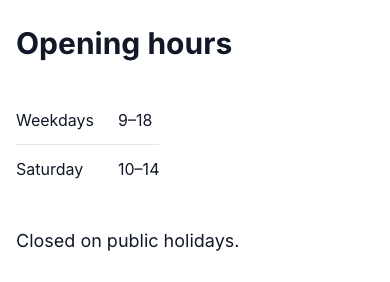
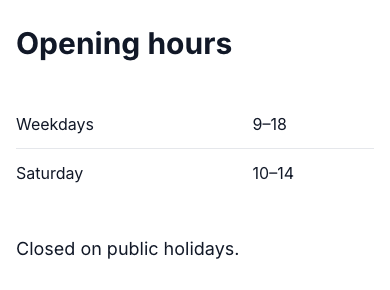
fix(astro-starter): a bare table in rich text scrolls in a named, focusable region and keeps its table semantics (#606)

diff --git a/packages/astro-kit/tests/starter-body-tables.test.ts b/packages/astro-kit/tests/starter-body-tables.test.ts
@@ -1,0 +1,70 @@
+import { readdir, readFile } from 'node:fs/promises'
+import { join } from 'node:path'
+import ts from 'typescript'
+import { describe, expect, it } from 'vitest'
+
+const STARTER = join(import.meta.dirname, '..', '..', '..', 'templates', 'astro-starter')
+
+// The starter's own file, compiled here: imported, it would be read under the starter's tsconfig, which extends astro's
+// (not installed in the template). It imports nothing, so it runs as it is.
+const source = await readFile(join(STARTER, 'src', 'lib', 'body-tables.ts'), 'utf8')
+const compiled = ts.transpileModule(source, { compilerOptions: { module: ts.ModuleKind.CommonJS, target: ts.ScriptTarget.ES2022 } }).outputText
+const loaded = { exports: {} as { scrollingTables: (html: string, label: string) => string, tableLabel: (t: (key: string) => string) => string } }
+// eslint-disable-next-line no-new-func -- the starter's module, read from its file
+new Function('module', 'exports', compiled)(loaded, loaded.exports)
+const { scrollingTables, tableLabel } = loaded.exports
+const region = (name: string) => `<div class="table-scroll" role="region" tabindex="0" ${name}>`
+const TABLE = '<table><tr><td>a</td></tr></table>'
+
+describe('a table in rich text with no table block around it scrolls in a named region', () => {
+  it('wraps a bare table, named by the label, and leaves the rest as written', () => {
+    expect(scrollingTables(`<p>x</p>${TABLE}<p>y</p>`, 'Table')).toBe(`<p>x</p>${region('aria-label="Table"')}${TABLE}</div><p>y</p>`)
+    expect(scrollingTables('<p>no table</p>', 'Table')).toBe('<p>no table</p>')
+  })
+
+  it('is named by the caption: its id where it has one, else its text', () => {
+    const captioned = '<table>\n<caption>Plans <b>"2026"</b> &amp; prices</caption><tr><td>a</td></tr></table>'
+    expect(scrollingTables(captioned, 'Table')).toBe(`${region('aria-label="Plans &quot;2026&quot; &amp; prices"')}${captioned}</div>`)
+    const withId = '<table><caption id="plans">Plans</caption><tr><td>a</td></tr></table>'
+    expect(scrollingTables(withId, 'Table')).toBe(`${region('aria-labelledby="plans"')}${withId}</div>`)
+  })
+
+  it('leaves a table block\'s table (its figure scrolls already) and a table already in a region', () => {
+    const block = `<figure class="wp-block-table is-style-stripes">${TABLE}<figcaption>c</figcaption></figure>`
+    expect(scrollingTables(block, 'Table')).toBe(block)
+    const once = scrollingTables(TABLE, 'Table')
+    expect(scrollingTables(once, 'Table')).toBe(once)
+  })
+
+  it('wraps only the outermost of nested tables, and each of two in a row', () => {
+    const nested = `<table><tr><td>${TABLE}</td></tr></table>`
+    expect(scrollingTables(nested, 'Table')).toBe(`${region('aria-label="Table"')}${nested}</div>`)
+    expect(scrollingTables(`${TABLE}${TABLE}`, 'T')).toBe(`${region('aria-label="T"')}${TABLE}</div>${region('aria-label="T"')}${TABLE}</div>`)
+  })
+
+  it('a table after a closed table block is wrapped (the block does not hold it)', () => {
+    const block = `<figure class="wp-block-table">${TABLE}</figure>`
+    expect(scrollingTables(`${block}${TABLE}`, 'Table')).toBe(`${block}${region('aria-label="Table"')}${TABLE}</div>`)
+  })
+
+  it('names a region "Table" where no locale has table.label (the dictionary would print the key)', () => {
+    expect(tableLabel(key => key)).toBe('Table')
+    expect(tableLabel(key => (key === 'table.label' ? 'Tablo' : key))).toBe('Tablo')
+  })
+
+  it('every page body and rich custom field takes it, with the site\'s table.label, which every locale names', async () => {
+    const links = await readFile(join(STARTER, 'src', 'lib', 'links.ts'), 'utf8')
+    expect(links).toContain("if (result.includes('<table')) result = scrollingTables(result, tableLabel(await getStrings()))")
+    const fields = await readFile(join(STARTER, 'src', 'lib', 'fields.ts'), 'utf8')
+    expect(fields).toContain("html: value.includes('<table') ? scrollingTables(value, tableLabel(await getStrings())) : value")
+    const dir = join(STARTER, '.contentrain', 'content', 'site', 'ui-strings')
+    const locales = await readdir(dir)
+    expect(locales.length).toBeGreaterThan(1)
+    for (const file of locales) expect(JSON.parse(await readFile(join(dir, file), 'utf8'))['table.label'], file).toBeTruthy()
+    // The region scrolls and the table in it keeps its display; only an unwrapped table falls back to scrolling itself.
+    const css = await readFile(join(STARTER, 'src', 'styles', 'wp-blocks.css'), 'utf8')
+    expect(css).toContain('.prose .table-scroll { overflow-x: auto;')
+    const blocks = [...css.matchAll(/([^{}]*table[^{}]*)\{([^}]*display:\s*block[^}]*)\}/g)].map(m => m[1]!.trim().split('\n').at(-1))
+    expect(blocks).toEqual(['.prose table:not(.wp-block-table table, .table-scroll table)'])
+  })
+})

diff --git a/templates/astro-starter/src/lib/body-tables.ts b/templates/astro-starter/src/lib/body-tables.ts
@@ -1,0 +1,71 @@
+// Tables inside rich text. A table with no table block around it (the classic editor's, or hand-written) is wrapped in
+// a region that scrolls, so a wide one stays inside the column instead of widening the page (a phone zooms out to a
+// page wider than its screen, and taps miss). The table keeps its own display, and with it its table semantics in
+// every screen reader; the region is focusable so a keyboard can scroll it, and is named by the table's caption, else
+// by `label`. A table block's figure scrolls already (wp-blocks.css) and is left as it is.
+
+const TAG = /<(\/?)(table|figure|div)\b([^>]*)>/gi
+const CLASS = /\sclass\s*=\s*(?:"([^"]*)"|'([^']*)')/i
+const ID = /\sid\s*=\s*(?:"([^"]*)"|'([^']*)')/i
+const CAPTION = /^\s*<caption\b([^>]*)>([\s\S]*?)<\/caption>/i
+
+const classes = (attributes: string) => { const m = CLASS.exec(attributes); return (m?.[1] ?? m?.[2] ?? '').split(/\s+/) }
+const attributeText = (text: string) => text.replaceAll('&', '&amp;').replaceAll('"', '&quot;')
+const plain = (html: string) => html.replace(/<[^>]*>/g, ' ').replace(/\s+/g, ' ').trim()
+
+/** The region's name: the caption's own id, else the caption's text, else `label`. */
+function named(table: string, open: string, label: string): string {
+  const caption = CAPTION.exec(table.slice(open.length))
+  if (caption) {
+    const id = ID.exec(caption[1]!)
+    if (id) return `aria-labelledby="${attributeText(id[1] ?? id[2]!)}"`
+    const text = plain(caption[2]!)
+    // The caption's text as written: entities stay entities, a quote is escaped for the attribute.
+    if (text) return `aria-label="${text.replaceAll('"', '&quot;')}"`
+  }
+  return `aria-label="${attributeText(label)}"`
+}
+
+/**
+ * The HTML with every outermost table that no table block or scroll region holds wrapped in
+ * `<div class="table-scroll" role="region" tabindex="0" aria-label…>`. A table inside a table is left in its parent.
+ */
+export function scrollingTables(html: string, label: string): string {
+  // Open figures and divs, each marked when it already scrolls its table (a table block, or a region from an earlier pass).
+  const open: Array<{ tag: string, scrolls: boolean }> = []
+  let depth = 0
+  let start = -1
+  let startTag = ''
+  let out = ''
+  let copied = 0
+  for (const match of html.matchAll(TAG)) {
+    const [whole, closing, name, attributes] = match as unknown as [string, string, string, string]
+    const tag = name.toLowerCase()
+    const at = match.index
+    if (tag !== 'table') {
+      if (depth > 0) continue
+      if (!closing) open.push({ tag, scrolls: tag === 'figure' ? classes(attributes).includes('wp-block-table') : classes(attributes).includes('table-scroll') })
+      else for (let i = open.length - 1; i >= 0; i--) if (open[i]!.tag === tag) { open.splice(i); break }
+      continue
+    }
+    if (!closing) {
+      if (depth++ === 0 && !open.some(element => element.scrolls)) { start = at; startTag = whole }
+      continue
+    }
+    if (depth === 0) continue
+    if (--depth === 0 && start !== -1) {
+      const end = at + whole.length
+      const table = html.slice(start, end)
+      out += `${html.slice(copied, start)}<div class="table-scroll" role="region" tabindex="0" ${named(table, startTag, label)}>${table}</div>`
+      copied = end
+      start = -1
+    }
+  }
+  return copied === 0 ? html : out + html.slice(copied)
+}
+
+/** The region's name where a table has no caption: the site's `table.label`, or "Table" where no locale names it. */
+export function tableLabel(t: (key: string) => string): string {
+  const text = t('table.label')
+  return text === 'table.label' ? 'Table' : text
+}

diff --git a/templates/astro-starter/src/lib/links.ts b/templates/astro-starter/src/lib/links.ts
@@ -12,8 +12,9 @@ import { getCollection, getEntry, type CollectionEntry } from 'astro:content'
 import { safeUrl } from '../components/kit/_shared/safe-url'
 import { servedPath, underBase, withBase, withoutBase } from './base'
 import type { NavItem } from '../components/kit/_shared/types'
-import { byId, getRedirects, getSite, pageHref, postHref, resolve, termHref } from './content'
+import { byId, getRedirects, getSite, getStrings, pageHref, postHref, resolve, termHref } from './content'
 import { optimizedImages } from './body-images'
+import { scrollingTables, tableLabel } from './body-tables'
 import { entriesOf, entryById, entryHref, termHref as customTermHref, termsById } from './custom'
 import { siteConfig } from '../site.config'
 import { routeTable } from './site-routes'
@@ -217,7 +218,8 @@ function mediaText(html: string, index: MediaIndex): string {
 
 /**
  * Rich text made public: internal links become site paths, links to what is not public become their text,
- * images without an alt take their media library entry's, and local raster images are served optimized.
+ * images without an alt take their media library entry's, local raster images are served optimized, and a table no
+ * table block holds scrolls in its own region.
  */
 export async function publicHtml(html: string): Promise<string>
 export async function publicHtml(html: string | undefined): Promise<string | undefined>
@@ -236,6 +238,7 @@ export async function publicHtml(html: string | undefined): Promise<string | und
       return href === stored ? anchor : `<a${attributes.replace(HREF, `href="${encode(href)}"`)}>${inner}</a>`
     })
   }
+  if (result.includes('<table')) result = scrollingTables(result, tableLabel(await getStrings()))
   return result.includes('<img') ? optimizedImages(mediaText(result, await media())) : result
 }
 

diff --git a/templates/astro-starter/src/styles/wp-blocks.css b/templates/astro-starter/src/styles/wp-blocks.css
@@ -265,10 +265,15 @@
 .prose .wp-block-table { overflow-x: auto; margin-block: 2em; }
 .prose .wp-block-table table { margin: 0; }
 .prose .wp-block-table.is-style-stripes tbody tr:nth-child(odd) { background: var(--color-surface-muted); }
-/* A table with no table block around it (the classic editor's, or hand-written) scrolls in its own box: a narrow one
-   keeps its content width, a wide one stays inside the column instead of widening the page (on a phone, a page wider
-   than the screen is zoomed out and its taps miss). */
-.prose table:not(.wp-block-table table) { display: block; width: max-content; max-width: 100%; overflow-x: auto; }
+/* A table with no table block around it (the classic editor's, or hand-written) is wrapped in a scroll region when the
+   page is built (lib/body-tables.ts): a wide one stays inside the column instead of widening the page, and the table
+   keeps its own display, so screen readers still read it as a table. The region takes focus to scroll by keyboard. */
+.prose .table-scroll { overflow-x: auto; margin-block: 2em; }
+.prose .table-scroll table { margin: 0; }
+.prose .table-scroll:focus-visible { outline: 2px solid var(--color-accent); outline-offset: 2px; }
+/* A net for a table that reached the page some other way, unwrapped: it scrolls in its own box rather than widen the
+   page. Never applies on the wrapped path. */
+.prose table:not(.wp-block-table table, .table-scroll table) { display: block; max-width: 100%; overflow-x: auto; }
 .prose .wp-block-code { border-radius: 0.5rem; }
 .prose .wp-block-verse { font-family: var(--font-serif); white-space: pre-wrap; }
 .prose .wp-block-file { display: flex; flex-wrap: wrap; align-items: center; gap: 1em; }

diff --git a/templates/astro-starter/src/lib/fields.ts b/templates/astro-starter/src/lib/fields.ts
@@ -6,7 +6,8 @@ import { getEntry, type CollectionKey } from 'astro:content'
 import type { ImageInput } from '../components/kit/_shared/types'
 import type { CustomField, CustomType } from '../site.config'
 import { entryHref, refIds, termHref, termsById, text, type TypeEntry } from './custom'
-import { imageOf, type Media } from './content'
+import { getStrings, imageOf, type Media } from './content'
+import { scrollingTables, tableLabel } from './body-tables'
 import { servedPath } from './base'
 
 export type Shown =
@@ -79,7 +80,11 @@ async function show(field: CustomField, value: unknown, targets: Targets, depth:
     if (shown.length === 0) return undefined
     return type === 'relation' || shown.length === 1 ? shown[0] : { kind: 'list', items: shown }
   }
-  if (type === 'richtext' || type === 'markdown') return typeof value === 'string' ? { kind: 'html', html: value } : undefined
+  // Printed as written, but a table in it scrolls in its region like a body's (it does not pass through publicHtml).
+  if (type === 'richtext' || type === 'markdown') {
+    if (typeof value !== 'string') return undefined
+    return { kind: 'html', html: value.includes('<table') ? scrollingTables(value, tableLabel(await getStrings())) : value }
+  }
   if (type === 'date' || type === 'datetime') return value instanceof Date ? { kind: 'time', value, dateOnly: type === 'date' } : undefined
   // The label is the row's term; a true value is its mark.
   if (type === 'boolean') return value === true ? { kind: 'text', text: '✓' } : undefined
